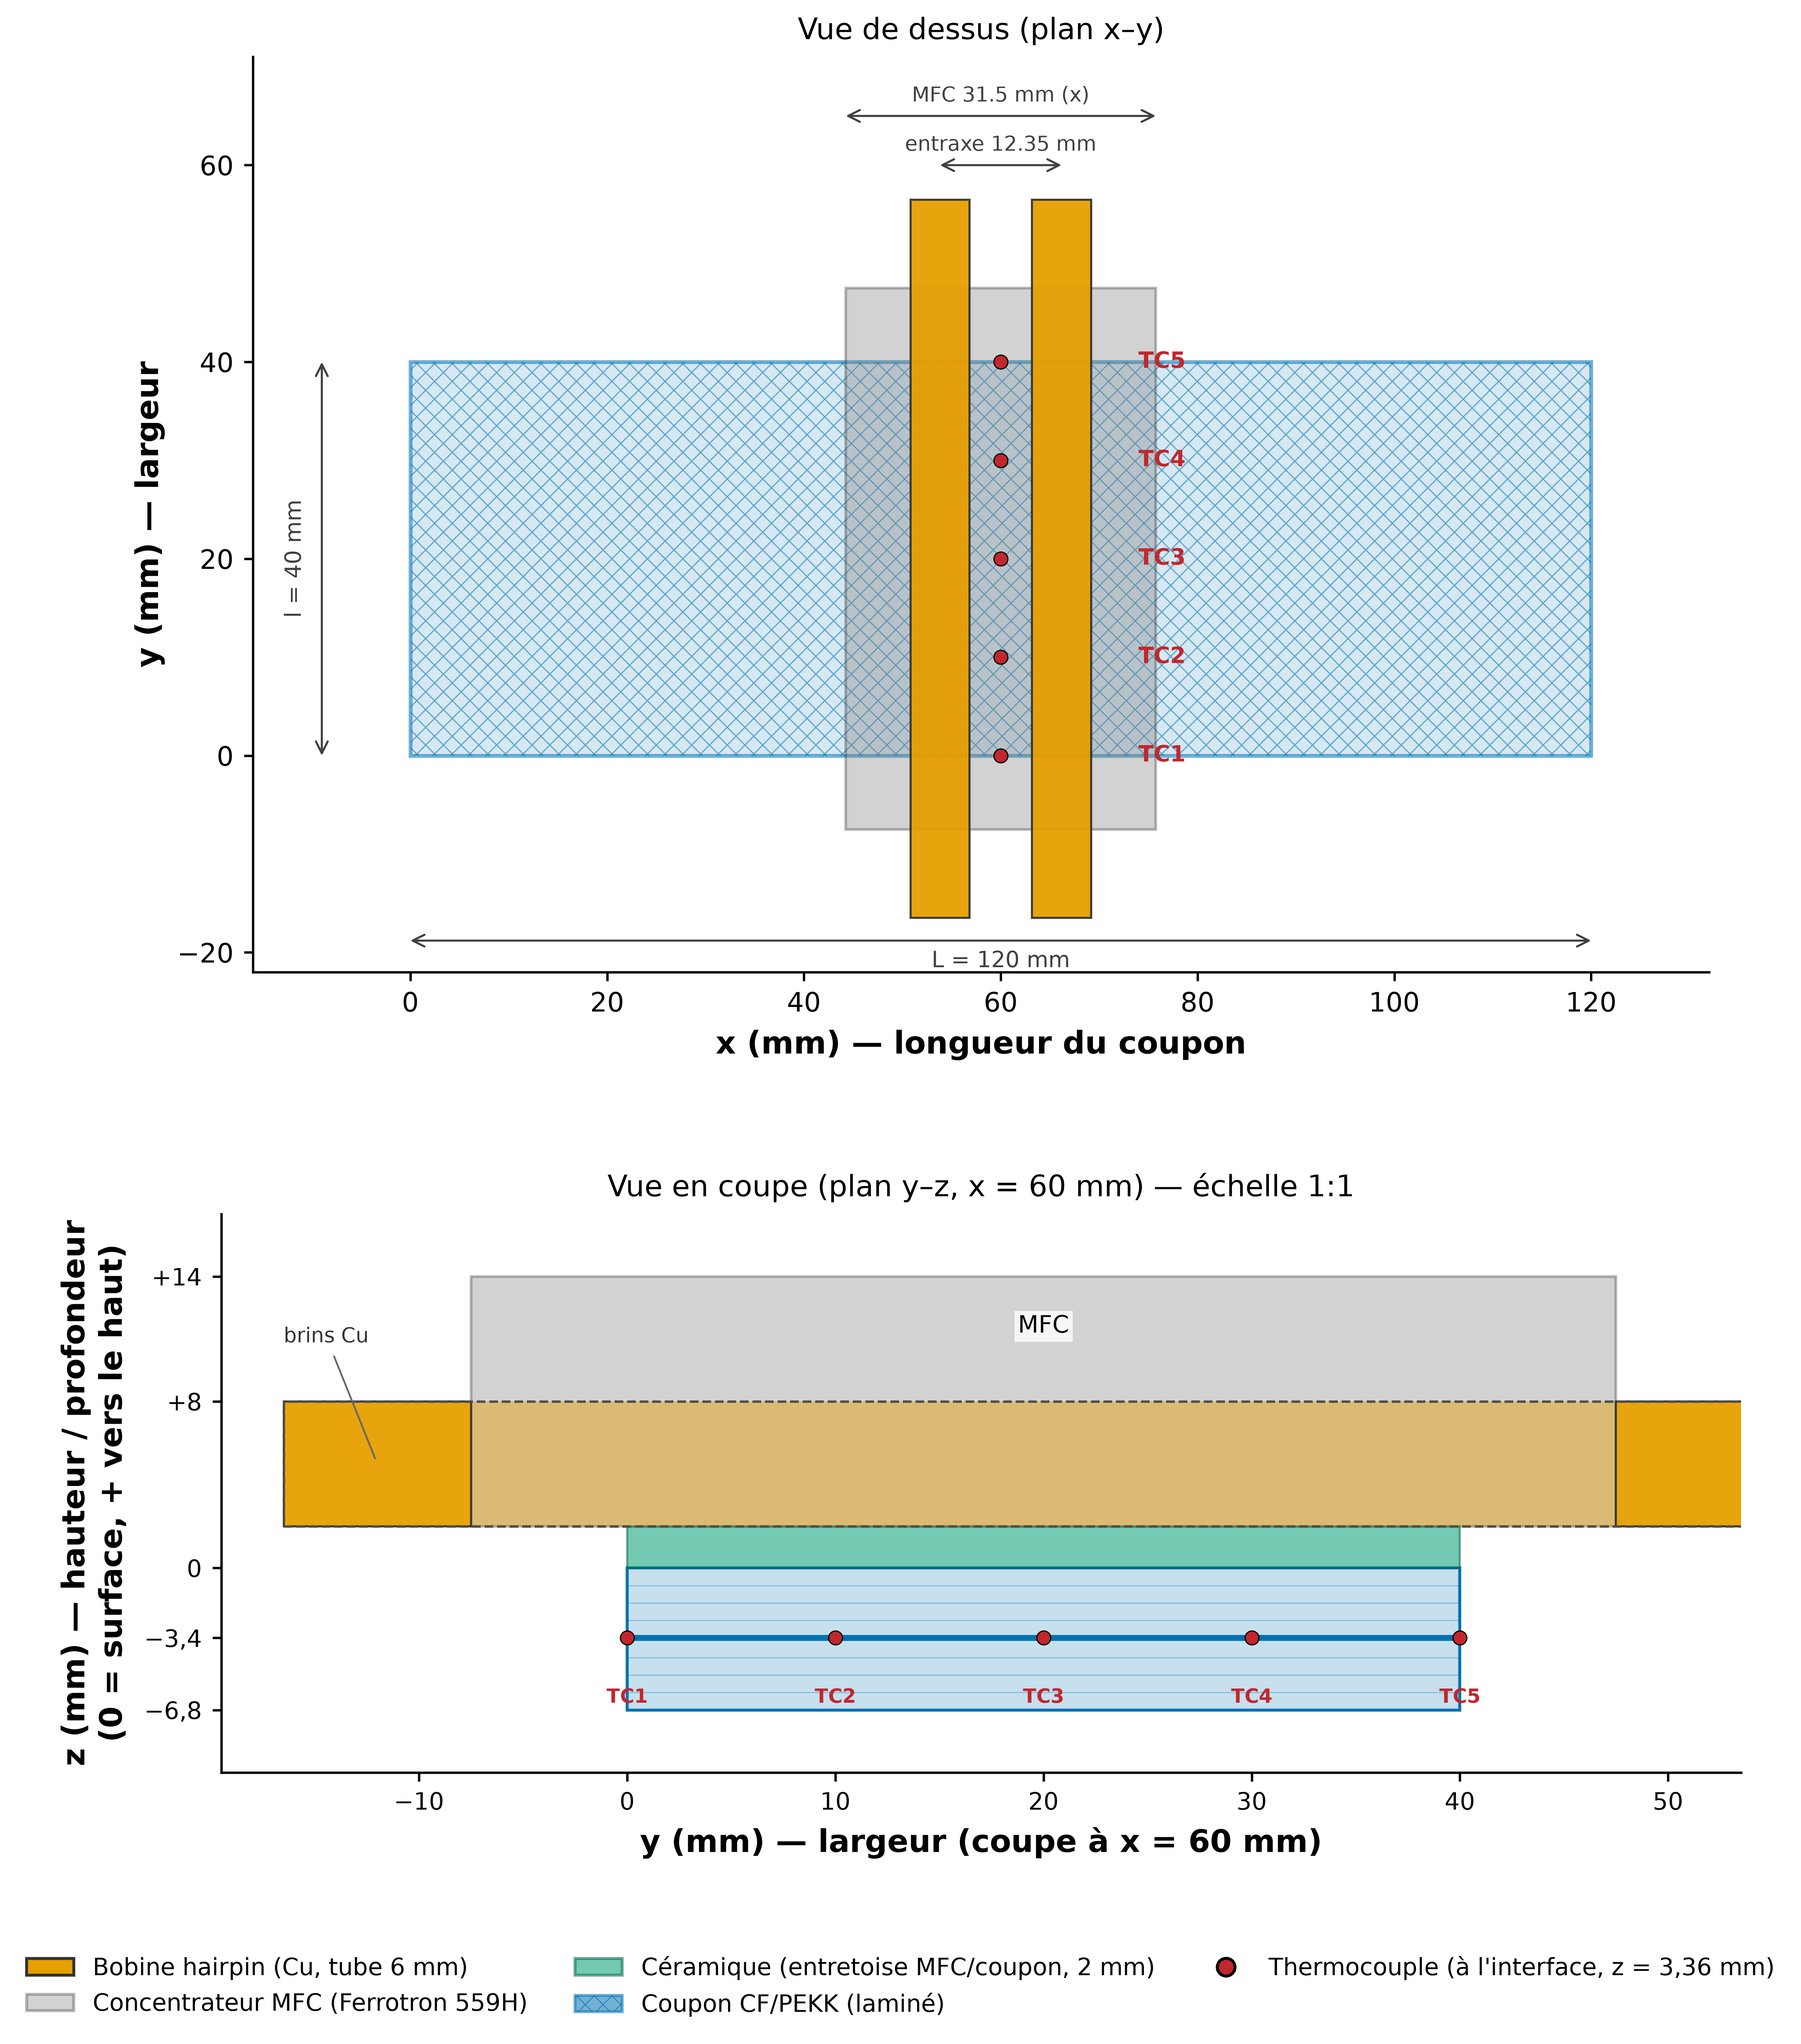
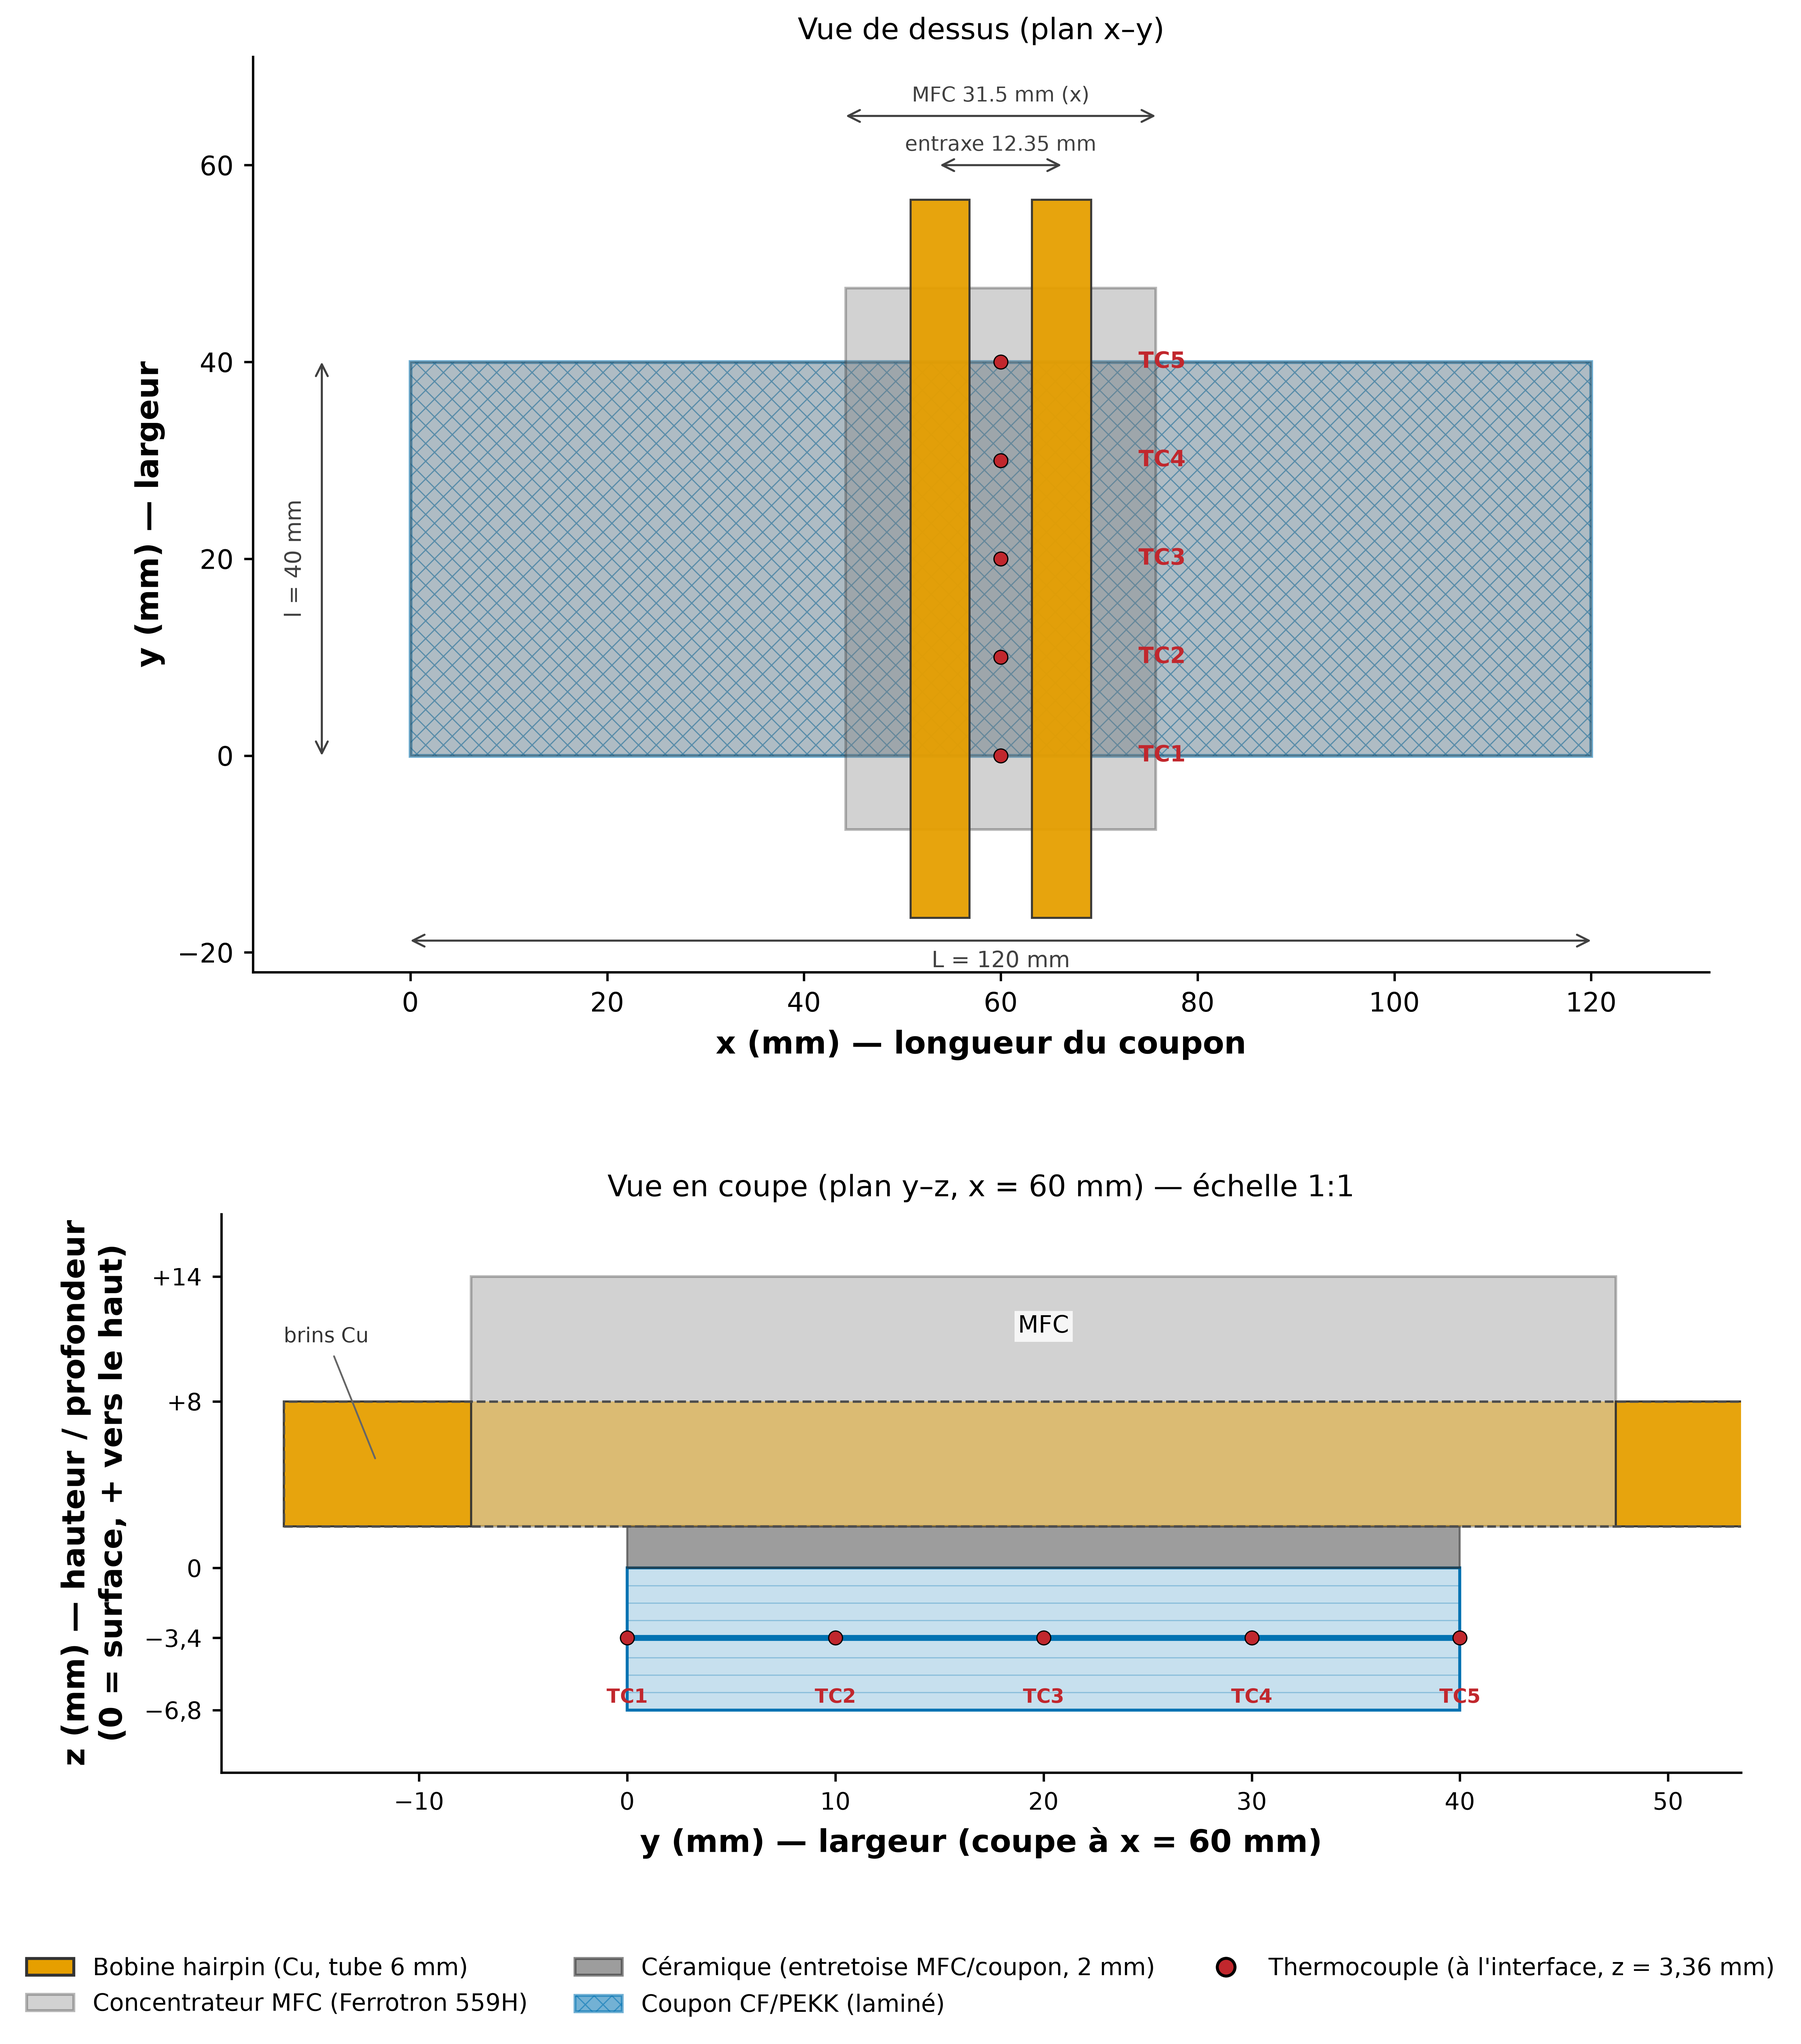
Montages: coupe exp9 bornée à 120 mm, retrait d1..d4, céramique gris foncé + transparente en vue de dessus
- exp9 coupe: coupon dessiné 0..120 mm (respecte L) au lieu de -8..128 rogné
- exp9 vue de dessus: suppression des empreintes de dwell pointillées (d1..d4)
- céramique: gris foncé (#4D4D4D) au lieu du vert, distincte du MFC gris clair
- vue de dessus (exp7 + exp9): céramique translucide sous le MFC (helper ceramique_patch)
- légende exp9 rapprochée des panneaux (bbox y 0.004 -> 0.06)

Changed region(s): [[0.2178, 0.1562, 0.9025, 0.3749], [0.3423, 0.7499, 0.8091, 0.7811], [0.3112, 0.9373, 0.3423, 0.9686]]

diff --git a/scripts/gen_schemas_montage.py b/scripts/gen_schemas_montage.py
@@ -41,7 +41,8 @@ C_COIL = "#E69F00"     # cuivre / bobine
 C_MFC = "#7F7F7F"      # gris / concentrateur (Magnetic Flux Concentrator)
 C_COUPON = "#0072B2"   # bleu / coupon-twill
 C_TC = "#C1272D"       # rouge / thermocouples
-C_CERAM = "#009E73"    # vert (Okabe-Ito) / céramique entretoise MFC-coupon
+C_CERAM = "#4D4D4D"    # gris foncé / céramique entretoise MFC-coupon
+C_CERAM_EDGE = "#262626"  # contour céramique (gris très foncé)
 C_FILM = "#EFEFEF"     # gris tres clair / film PEKK
 
 BOXPROPS = dict(facecolor="white", alpha=0.82, edgecolor="none", pad=1.2)
@@ -150,6 +151,14 @@ def mfc_patch(ax, xc, yc, style="solid"):
              linewidth=1.0, linestyle=":", zorder=3)
 
 
+def ceramique_patch(ax):
+    """Entretoise ceramique (2 mm) vue de dessus : plaque translucide gris
+    fonce sur toute l'emprise du coupon, sous le MFC (comme le patch MFC,
+    avec effet de transparence)."""
+    rect(ax, 0, 0, L, W, facecolor=C_CERAM, alpha=0.28, edgecolor=C_CERAM_EDGE,
+         linewidth=0.6, zorder=2)
+
+
 def tc_marker(ax, x, y, label, dxlab=0, dylab=2.6, fs=7.4, ha="center", va="bottom"):
     ax.scatter([x], [y], s=22, marker="o", color=C_TC, edgecolor="black",
                linewidth=0.4, zorder=10)
@@ -160,7 +169,7 @@ def tc_marker(ax, x, y, label, dxlab=0, dylab=2.6, fs=7.4, ha="center", va="bott
 LEGEND_HANDLES = [
     Rectangle((0, 0), 1, 1, facecolor=C_COIL, edgecolor="0.2", label="Bobine hairpin (Cu, tube 6 mm)"),
     Rectangle((0, 0), 1, 1, facecolor=C_MFC, edgecolor="0.2", alpha=0.35, label="Concentrateur MFC (Ferrotron 559H)"),
-    Rectangle((0, 0), 1, 1, facecolor=C_CERAM, edgecolor="#00654A", alpha=0.55, label="Céramique (entretoise MFC/coupon, 2 mm)"),
+    Rectangle((0, 0), 1, 1, facecolor=C_CERAM, edgecolor=C_CERAM_EDGE, alpha=0.55, label="Céramique (entretoise MFC/coupon, 2 mm)"),
     Rectangle((0, 0), 1, 1, facecolor=C_COUPON, edgecolor=C_COUPON, alpha=0.55,
               hatch="xxxx", label="Coupon CF/PEKK (laminé)"),
     Line2D([0], [0], marker="o", color="none", markerfacecolor=C_TC, markeredgecolor="black",
@@ -205,7 +214,7 @@ def draw_stack_1to1(ax, a, b, interface_label=True):
         ax.plot([a, b], [z_inf, z_inf], color=C_COUPON, alpha=0.30, lw=0.4, zorder=3)
     # ceramique 0 -> +2 (entretoise entre coupon et MFC/tubes, couleur distincte)
     rect(ax, a, 0.0, b - a, H_CERAM_TOP, facecolor=C_CERAM, alpha=0.55,
-         edgecolor="#00654A", linewidth=0.7, zorder=5)
+         edgecolor=C_CERAM_EDGE, linewidth=0.7, zorder=5)
     # contours
     rect(ax, a, H_COUPON_BOT, b - a, -H_COUPON_BOT, facecolor="none", edgecolor=C_COUPON,
          linewidth=1.0, zorder=4)
@@ -237,6 +246,7 @@ def make_exp7():
 
     # --- Panneau 1 : vue de dessus (x-y) ---------------------------------
     coupon_weave(ax1, 0, 0, L, W)
+    ceramique_patch(ax1)                    # entretoise translucide sous le MFC
     mfc_patch(ax1, xc, yc, style="solid")
     coil_legs_patch(ax1, xc, yc)
 
@@ -329,12 +339,9 @@ def make_exp9():
 
     # --- Panneau 1 : vue de dessus (x-y) ----------------------------------
     coupon_weave(ax1, 0, 0, L, W)
+    ceramique_patch(ax1)                    # entretoise translucide sous le MFC
     mfc_patch(ax1, xc_spot, yc, style="solid")
     coil_legs_patch(ax1, xc_spot, yc)
-    for j, xd in enumerate(CENTRES_DWELL, start=1):
-        mfc_patch(ax1, xd, yc, style="dotted")
-        ax1.text(xd, yc - MFC_Y / 2 - 2.0, f"d{j}", ha="center", va="top",
-                 fontsize=6.6, color="0.30", fontweight="bold")
 
     xs_tc = [0, 30, 60, 90, 120]
     for i, x in enumerate(xs_tc, start=1):
@@ -366,8 +373,8 @@ def make_exp9():
     # La vue de dessus porte deja le contexte pleine longueur (5 TC + 4 dwells).
     # La coupe se concentre sur le spot (x=60) pour montrer la geometrie reelle
     # (tubes carres, MFC) a l'echelle 1:1. Fenetre x=[28, 92] : TC2/TC3/TC4.
-    x_lo, x_hi = 0.0, 120.0                 # pleine longueur : les 5 TC visibles
-    draw_stack_1to1(ax2, -8, L + 8)         # empilement dessine large, clipe par xlim
+    x_lo, x_hi = 0.0, 120.0                 # pleine longueur : le coupon fait 120 mm
+    draw_stack_1to1(ax2, x_lo, x_hi)        # coupon borne a 0..120 mm (respecte L)
     # MFC spot (plein) + 2 tubes carres traversant (coupe ⊥ aux tubes -> carres)
     rect(ax2, xc_spot - MFC_X / 2, H_MFC_BOT, MFC_X, MFC_H, facecolor=C_MFC,
          edgecolor="0.2", alpha=0.35, linewidth=0.9, zorder=4)
@@ -398,7 +405,7 @@ def make_exp9():
     coupe_axis_cosmetics(ax2)
 
     fig.legend(handles=LEGEND_HANDLES, loc="lower center", ncol=3, frameon=False,
-               bbox_to_anchor=(0.5, 0.004), fontsize=8.0)
+               bbox_to_anchor=(0.5, 0.06), fontsize=8.0)
 
     savefig(fig, OUT / "schema_montage_exp9.png")
     plt.close(fig)
